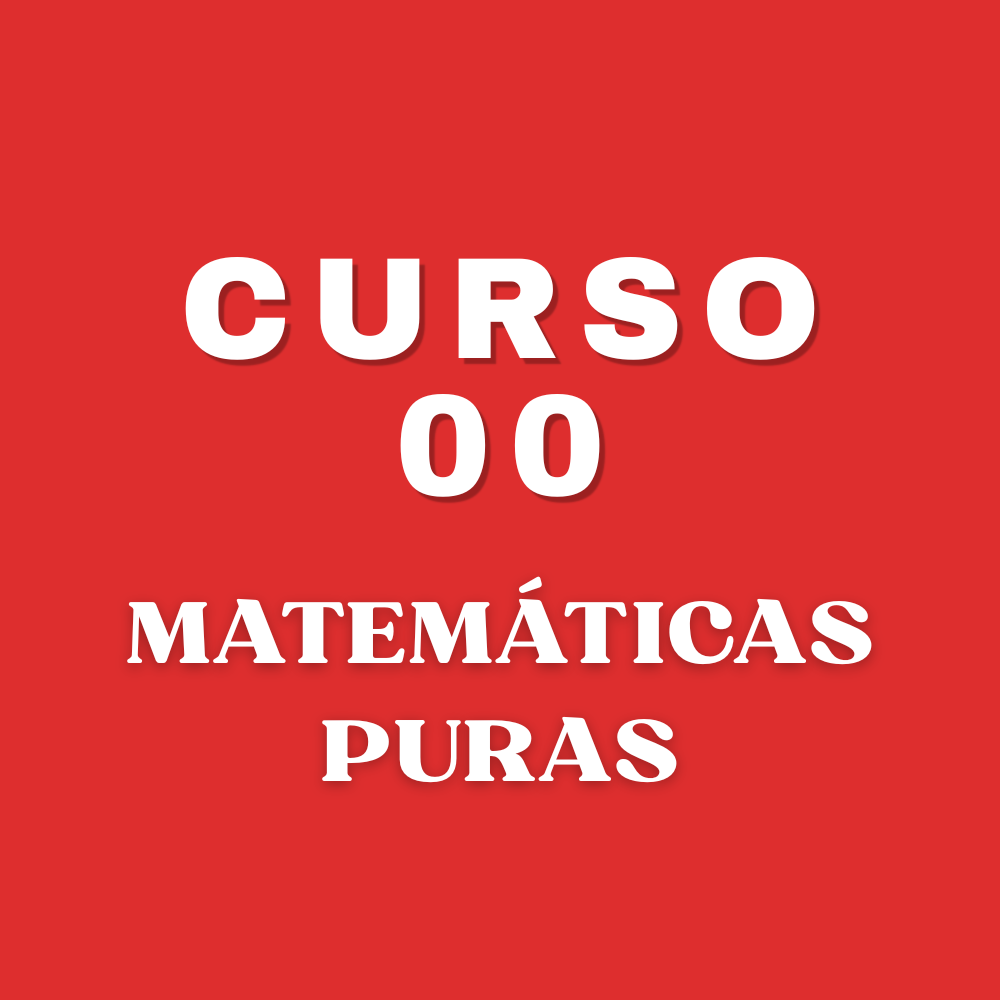
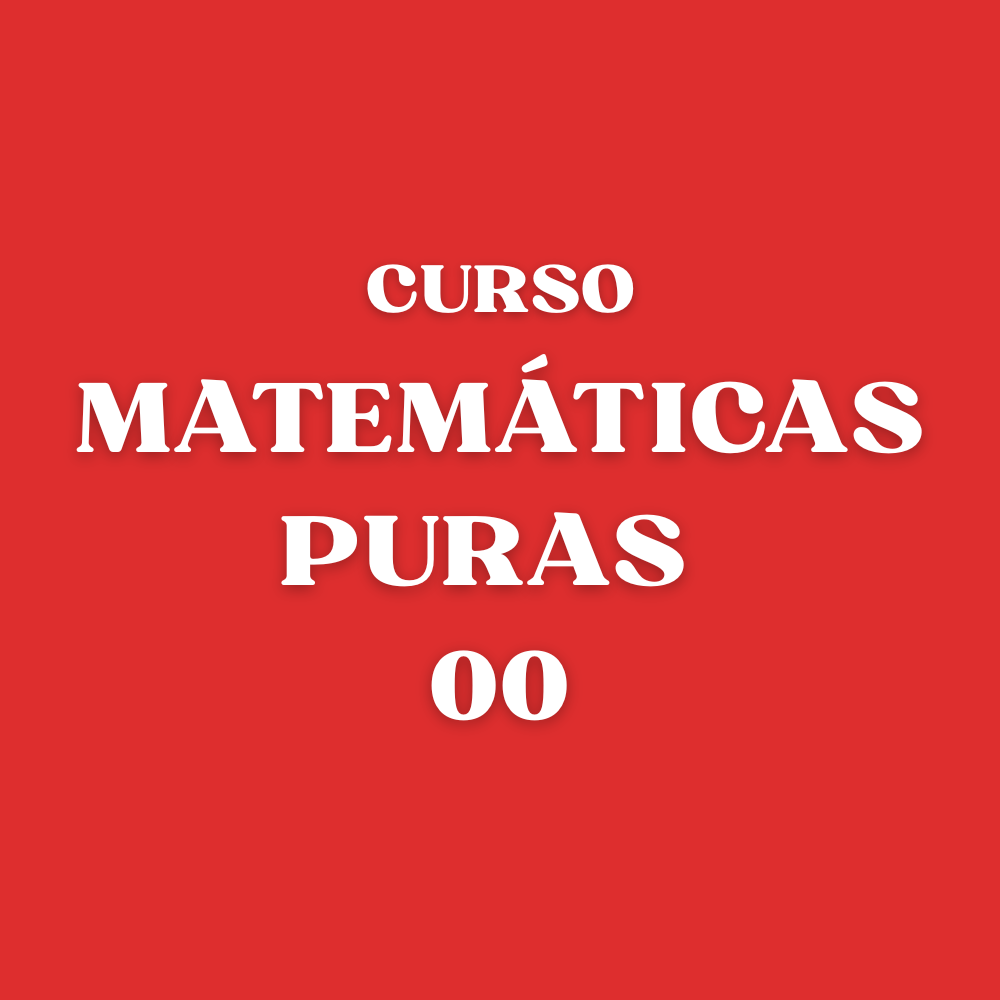
Añadí libro mate puras 00

Changed region(s): [[0.062, 0.248, 0.93, 0.806]]

diff --git a/src/data/productos.js b/src/data/productos.js
@@ -1,16 +1,6 @@
 
 const productos = [
-  {
-    id: "curso-algebra",
-    nombre: "Curso de Álgebra Básica",
-    categoria: "Cursos",
-    precio: "$2500 MXN + IVA",
-    descripcion:
-      "Ideal para preparación para exámenes escolares o laborales. Para aprender los conceptos básicos de álgebra útiles para ahondar en cualquier tema matemático profundo. Los conceptos no son difíciles y no necesitas conocimiento previo.",
-    imagen: "/images/algebra-basica.png",
-    destacado: true,
-    url: "https://go.hotmart.com/K107960205G"
-  },
+  
   {
     id: "curso-logica",
     nombre: "Curso 00 - Matemáticas puras",
@@ -21,6 +11,28 @@ const productos = [
     imagen: "/images/curso00-mate-puras.png",
     destacado: true,
     url:"https://go.hotmart.com/N107579460T?dp=1"
+  },
+  {
+    id: "libro-matematicas-puras-00",
+    nombre: "Libro Matemáticas Puras 00",
+    categoria: "Libros",
+    precio: "$420 MXN + IVA",
+    descripcion:
+      "Este es el primer libro que debes leer si estás empezando a aprender matemáticas puras, con rigor y seriedad. ",
+    imagen: "/images/libro-matepuras00.png",
+    destacado: true,
+    url: "https://go.hotmart.com/R108040050S?dp=1"
+  },
+  {
+    id: "curso-algebra",
+    nombre: "Curso de Álgebra Básica",
+    categoria: "Cursos",
+    precio: "$2500 MXN + IVA",
+    descripcion:
+      "Ideal para preparación para exámenes escolares o laborales. Para aprender los conceptos básicos de álgebra útiles para ahondar en cualquier tema matemático profundo. Los conceptos no son difíciles y no necesitas conocimiento previo.",
+    imagen: "/images/algebra-basica.png",
+    destacado: true,
+    url: "https://go.hotmart.com/K107960205G"
   }
 ];
 
